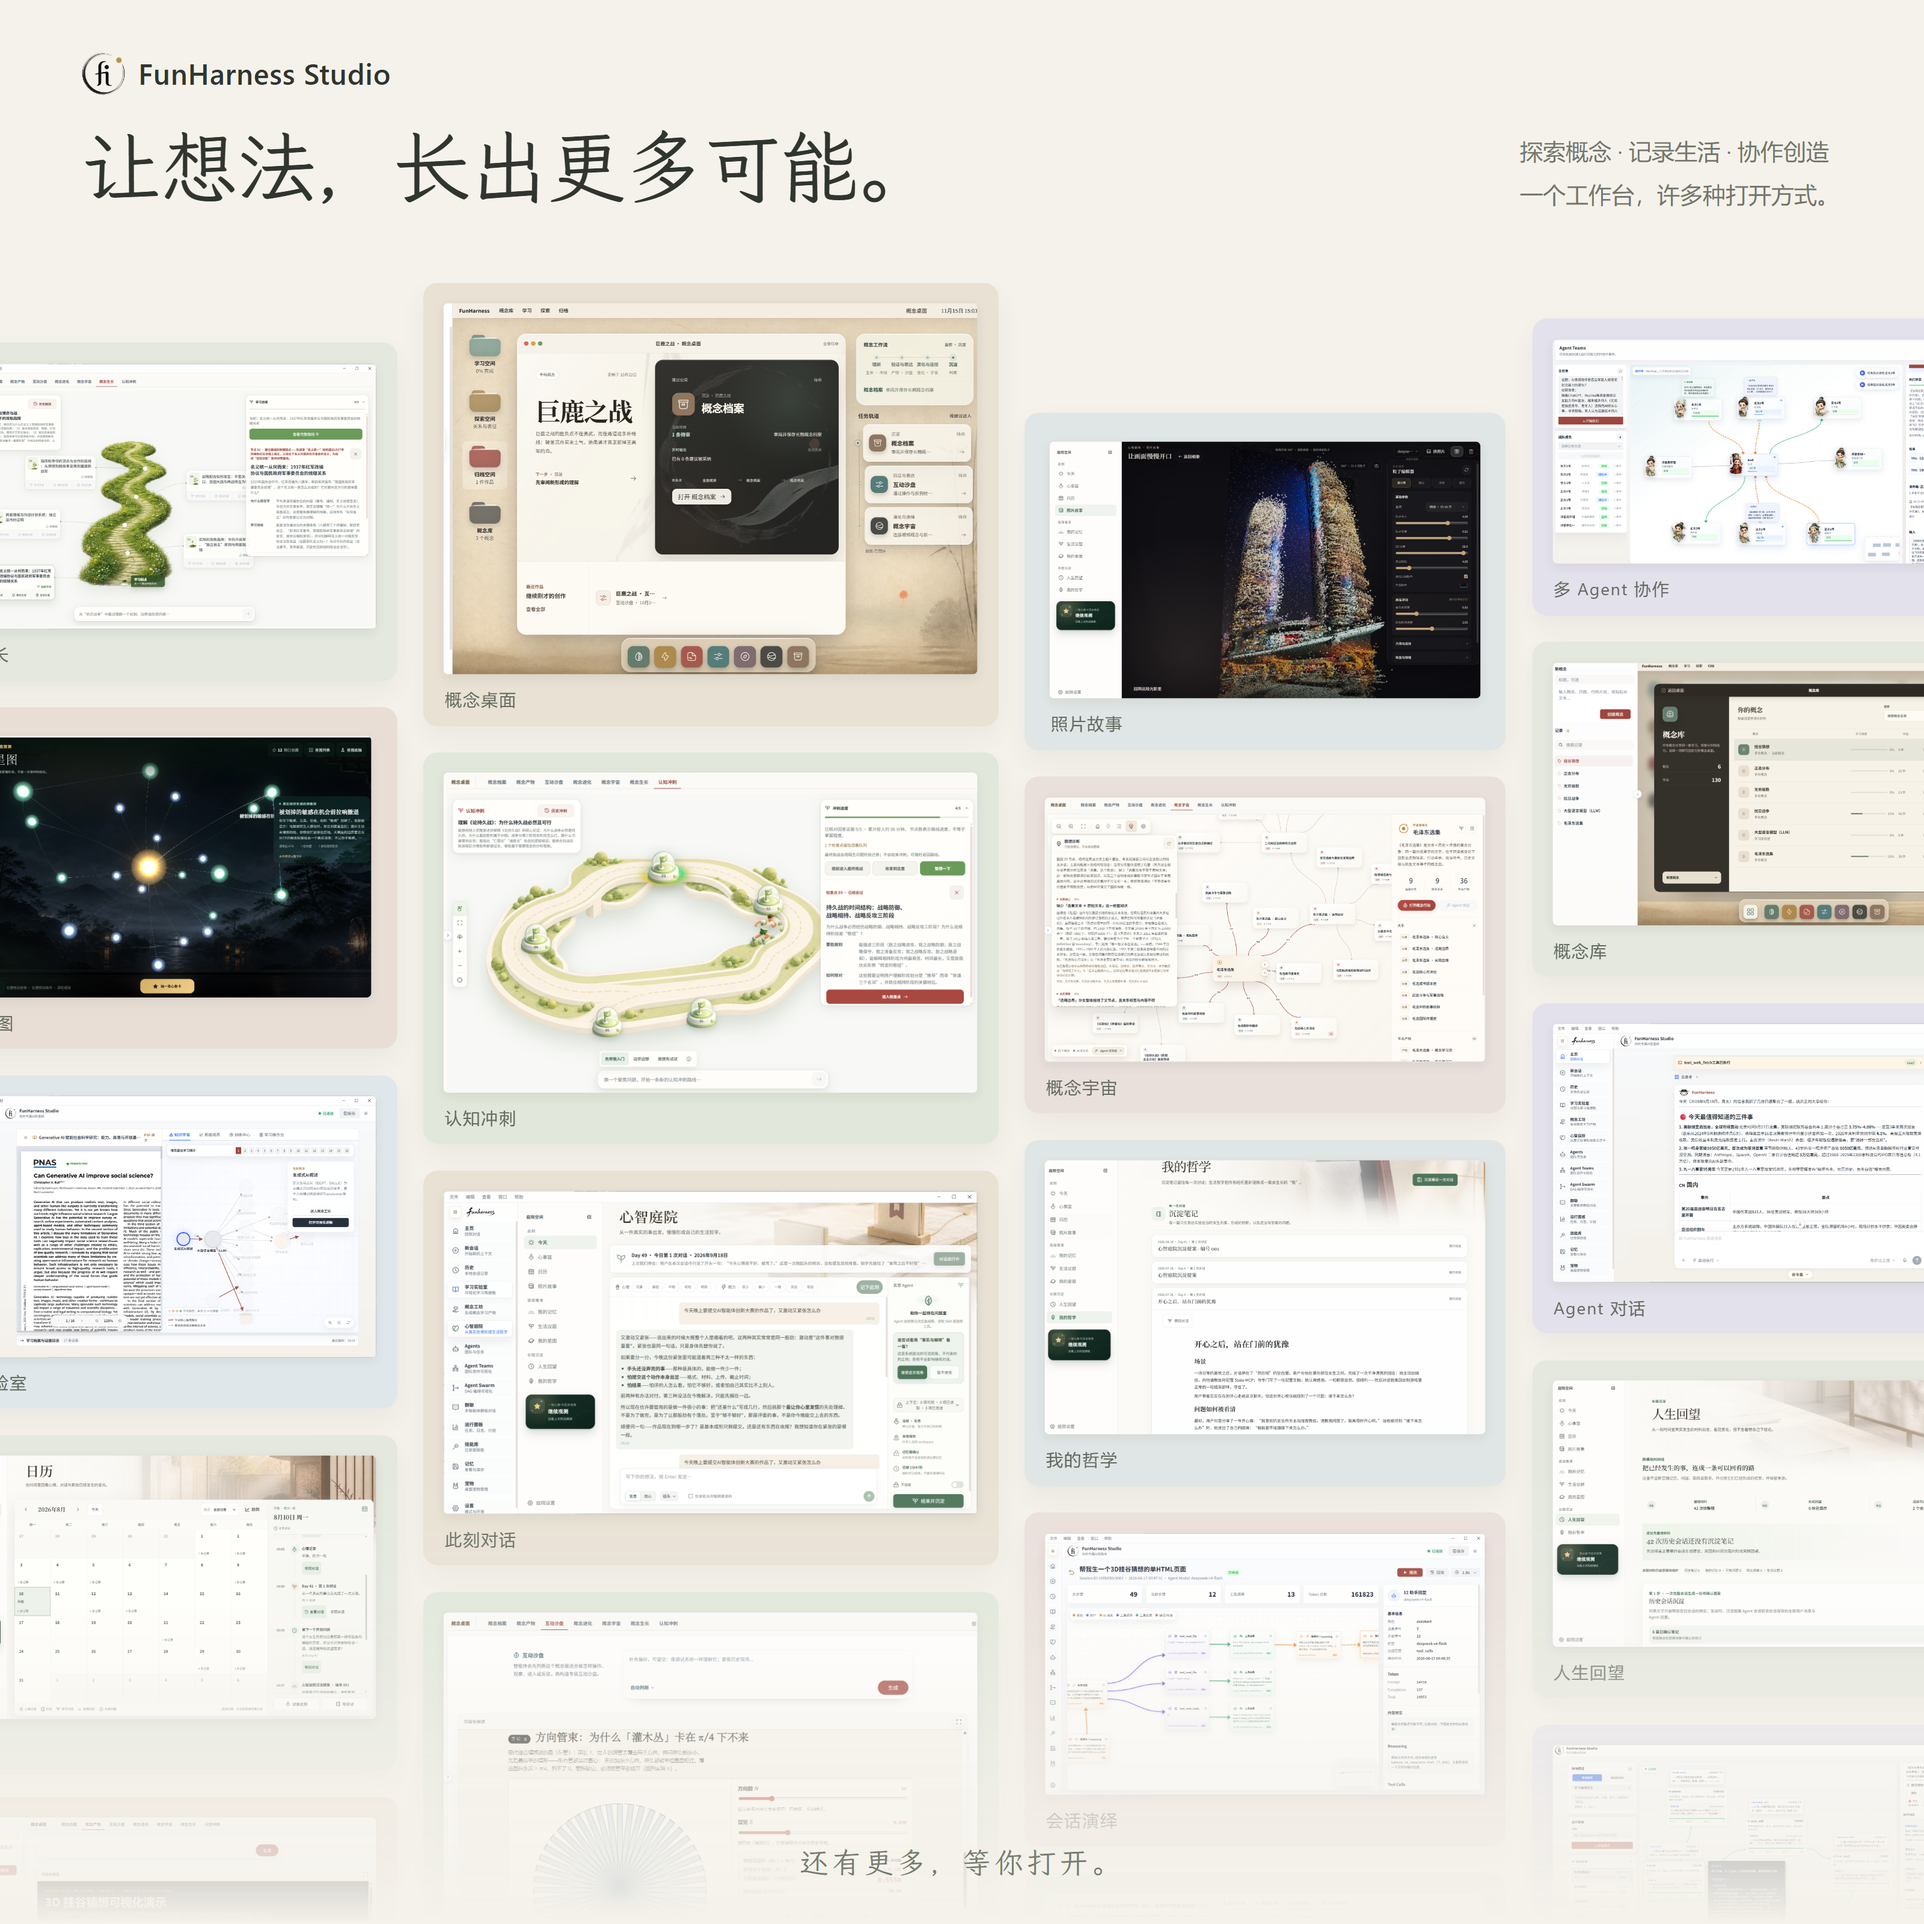
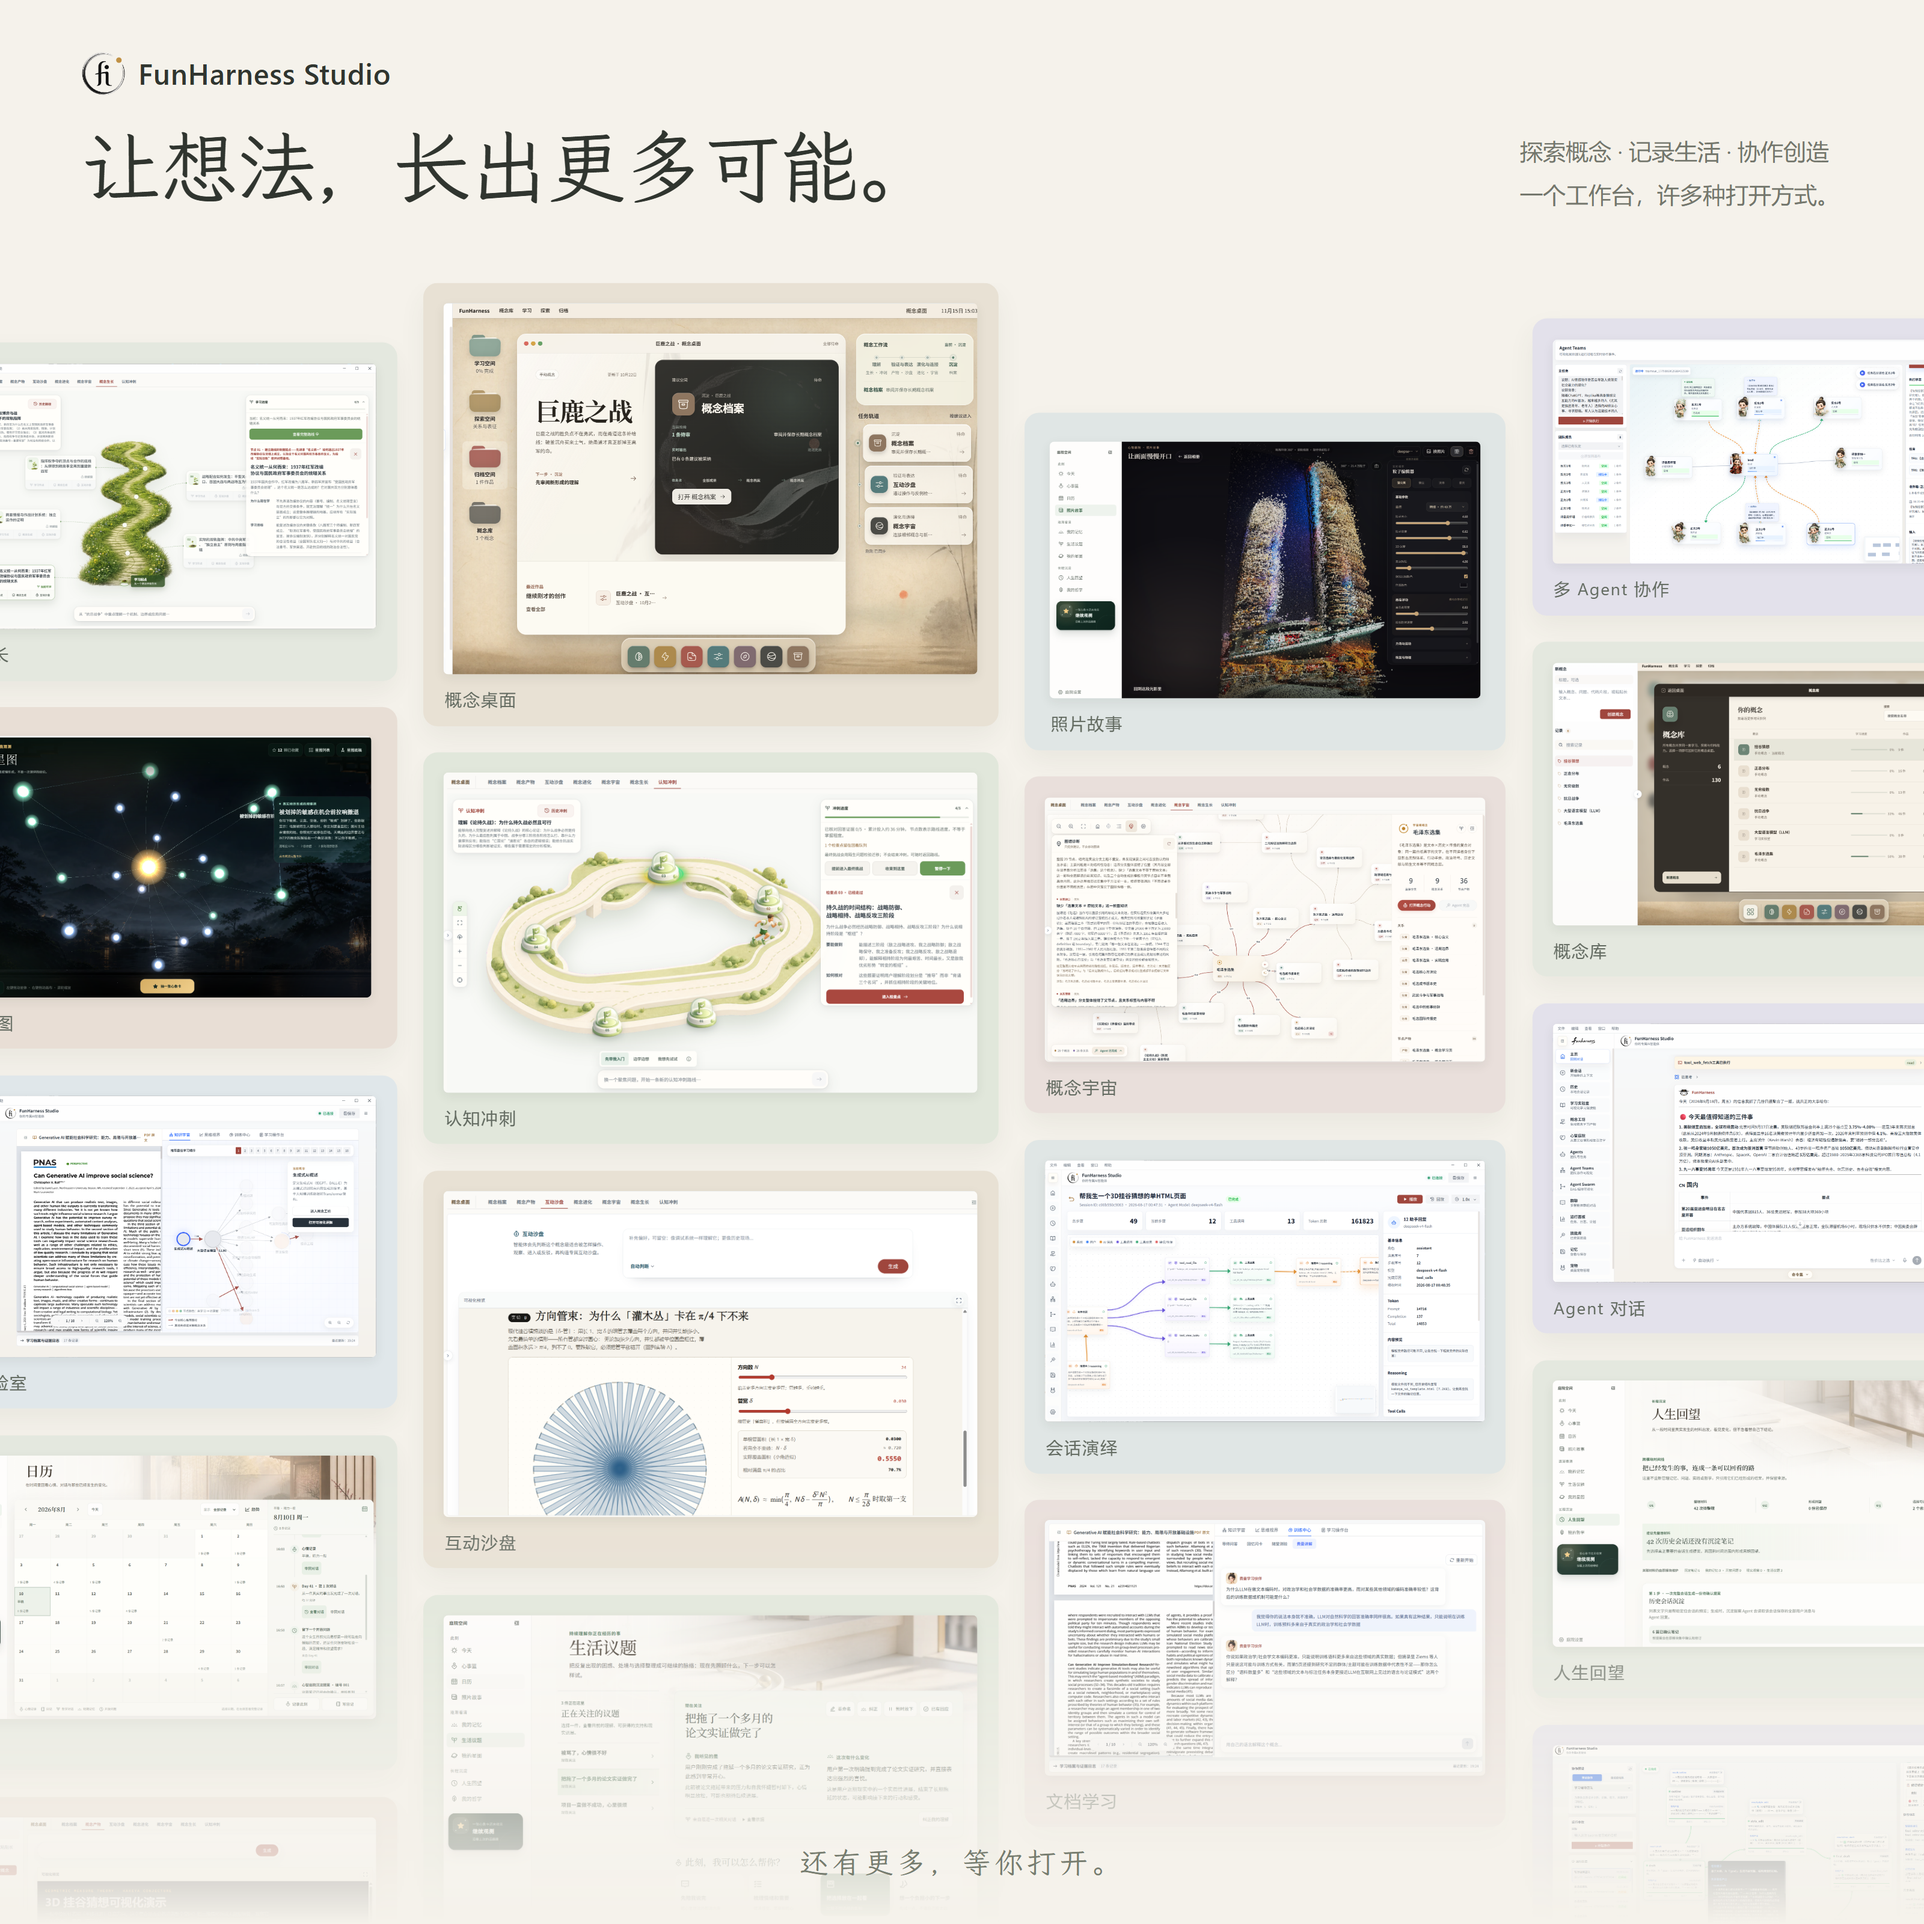
更新 README、界面图集与截图拼贴海报

Changed region(s): [[0.2188, 0.5938, 0.7812, 0.9375], [0.2188, 0.9375, 0.2812, 0.9688], [0.4375, 0.9062, 0.4688, 0.9375]]

diff --git a/assets/studio/studio-poster.html b/assets/studio/studio-poster.html
@@ -5,8 +5,8 @@
 <script>
 const columns=[
 [['concept-growth.png','概念生长'],['garden.png','我的星图'],['study.png','学习实验室'],['garden-calendar.png','日历'],['concept-page.png','概念学习页']],
-[['concept-desktop.png','概念桌面'],['concepts.png','认知冲刺'],['garden-today.png','此刻对话'],['concept-sandbox.png','互动沙盘'],['garden-topics.png','生活议题']],
-[['garden-photo.png','照片故事'],['concept-universe.png','概念宇宙'],['garden-philosophy.png','我的哲学'],['replay.png','会话演绎'],['study-notes.png','文档学习']],
+[['concept-desktop.png','概念桌面'],['concepts.png','认知冲刺'],['concept-sandbox.png','互动沙盘'],['garden-topics.png','生活议题']],
+[['garden-photo.png','照片故事'],['concept-universe.png','概念宇宙'],['replay.png','会话演绎'],['study-notes.png','文档学习']],
 [['teams.png','多 Agent 协作'],['concept-library.png','概念库'],['chat.png','Agent 对话'],['garden-review.png','人生回望'],['swarm.png','Agent Swarm']]];
 document.getElementById('gallery').innerHTML=columns.map(col=>'<div class="column">'+col.map(([src,title])=>'<figure><img src="'+src+'" alt="'+title+'"><figcaption>'+title+'</figcaption></figure>').join('')+'</div>').join('');
 </script></html>

diff --git a/scripts/update_studio_gallery.py b/scripts/update_studio_gallery.py
@@ -11,10 +11,8 @@ GROUPS = [
         ("concept-universe.png", "概念宇宙", "展开概念关系，探索关联网络"),
     ]),
     ("心智庭院", [
-        ("garden-today.png", "此刻对话", "从一件真实的事出发，记录当下"),
         ("garden-photo.png", "照片故事", "在可探索的粒子画面中重访记忆"),
         ("garden.png", "我的星图", "把经历与观察连接成个人星图"),
-        ("garden-philosophy.png", "我的哲学", "让日常反思沉淀成可回读的笔记"),
     ]),
     ("更多工作台界面", [
         ("chat.png", "Agent 对话", "查看思考过程、工具调用与任务结果"),
@@ -64,7 +62,7 @@ def main():
     else:
         text = text.replace("<details>\n<summary>查看 FunHarness TUI 终端演示</summary>", block + "<details>\n<summary>查看 FunHarness TUI 终端演示</summary>", 1)
     readme.write_text(text, encoding="utf-8")
-    manifest = {"poster": {"file": "studio-poster.png", "method": "HTML/CSS original screenshot collage, rendered with Electron", "source": "studio-poster.html", "screenshot_count": 20, "note": "20 张原始截图按比例拼贴，无 AI 重绘。"}, "gallery": [{"section": title, "files": [item[0] for item in entries]} for title, entries in GROUPS]}
+    manifest = {"poster": {"file": "studio-poster.png", "method": "HTML/CSS original screenshot collage, rendered with Electron", "source": "studio-poster.html", "screenshot_count": 18, "note": "18 张原始截图按比例拼贴，无 AI 重绘。"}, "gallery": [{"section": title, "files": [item[0] for item in entries]} for title, entries in GROUPS]}
     (ROOT / "assets/studio/gallery.json").write_text(json.dumps(manifest, ensure_ascii=False, indent=2) + "\n", encoding="utf-8")
 
 
